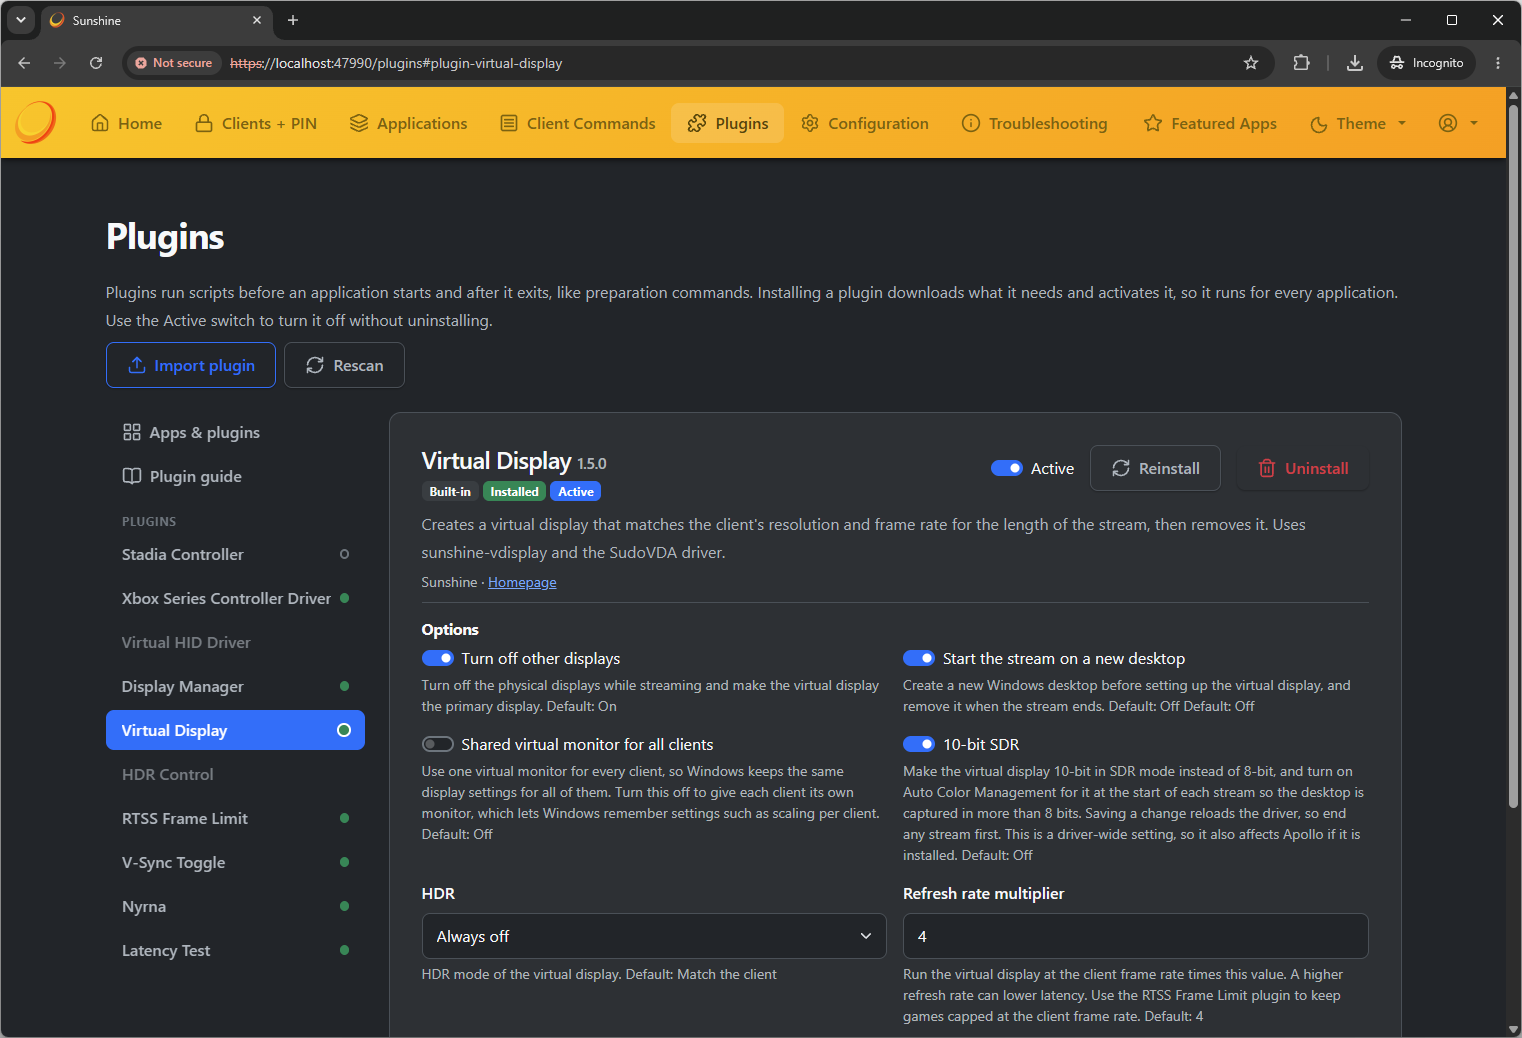
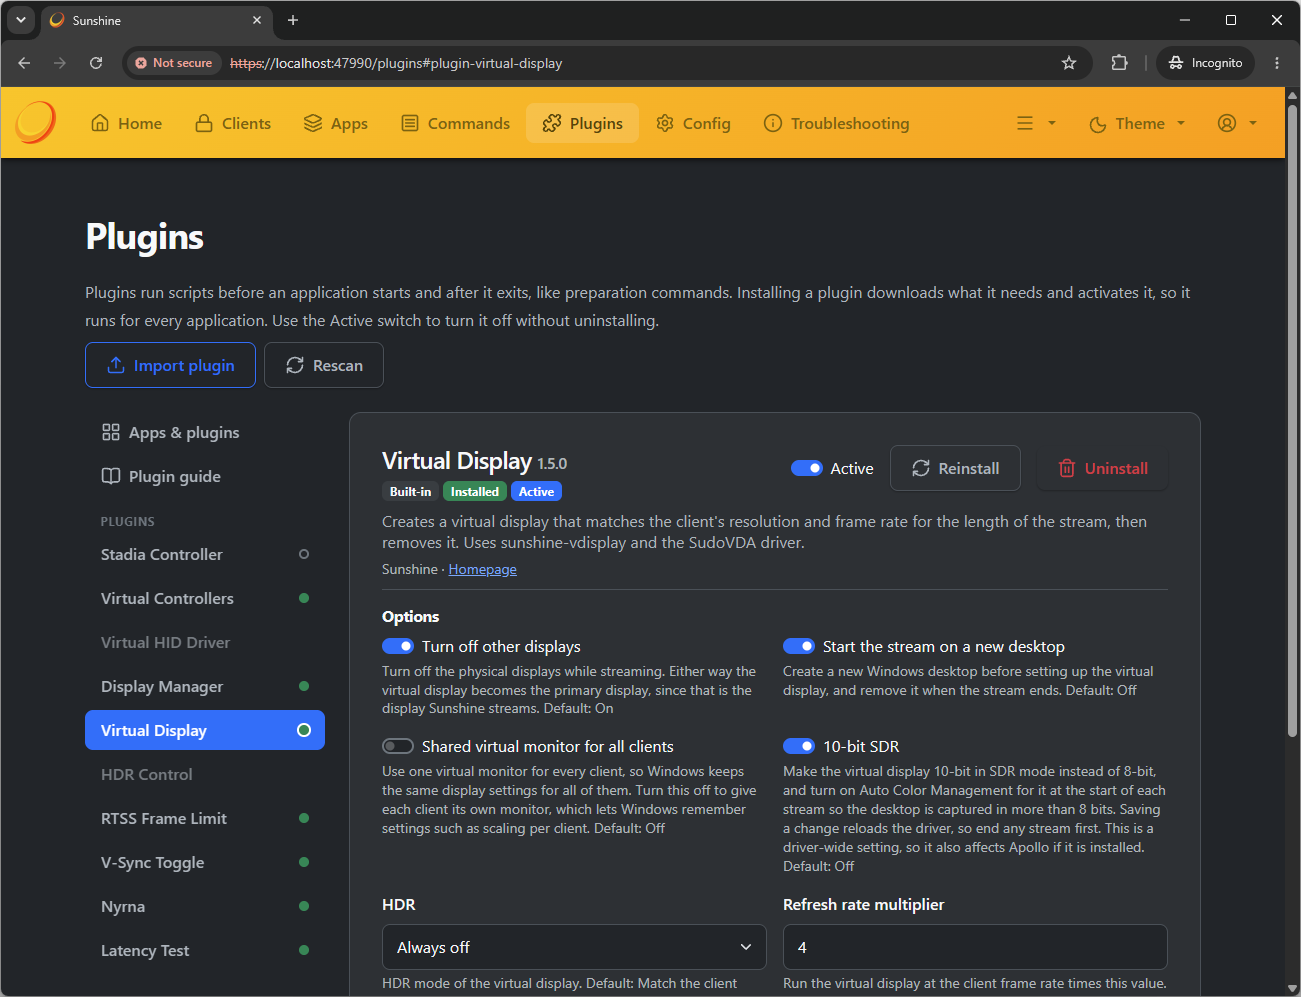
docs: describe the DualSense controllers and the reworked Clients page in the README

diff --git a/README.md b/README.md
@@ -25,7 +25,7 @@ Bundled plugins:
 - **RTSS Frame Limit**: caps games at the client's frame rate through RivaTuner.
 - **V-Sync Toggle**: sets the driver's global V-Sync for the stream (NVIDIA and AMD).
 - **Nyrna**: a *Suspend* / *Resume* client command, with a notification showing what is suspended.
-- **Xbox Series Controller Driver**: light-weight input driver that maps any client controller to an Xbox Series controller on this host.
+- **Virtual Controllers**: a light-weight input driver that shows client controllers to games as Xbox Series or DualSense controllers, chosen automatically, per application or client, or from the client's in-stream menu.
 - **Virtual HID**: manage the optional Virtual HID driver license and status.
 - **Stadia Controller**: use a Stadia Controller over Wi-Fi as a virtual Xbox controller, with a live view of its buttons and optional headset audio.
 - **Latency Test**: a test pattern for measuring latency and pacing with a phone camera (read more: [ML Latency Analyzer](https://github.com/MoreOrLessSoftware/latency-analyzer))
@@ -38,7 +38,7 @@ Buttons that Sunshine adds to a Moonlight client's in-stream overlay menu. Each 
 
 - Edit them on the **Client Commands** page, for all streams, for one application, or for a group of programs.
 - Program groups appear when one of their programs is in the foreground (or, with a `~` before the name, just running).
-- Plugins add commands of their own, and you can change their labels, icons and programs.
+- Plugins add commands of their own, and you can change their labels, icons and programs. Bundled plugins can also offer commands that Sunshine itself carries out, such as switching your controllers between Xbox and DualSense.
 - Individual commands can be turned on or off. Command lines are told which client and application they run for.
 
 [![Client Commands](./screenshots/client_commands.webp)](https://raw.githubusercontent.com/MoreOrLessSoftware/Sunshine/mlsoft-custom/screenshots/client_commands.webp)
@@ -49,11 +49,11 @@ Buttons that Sunshine adds to a Moonlight client's in-stream overlay menu. Each 
 ### Web UI
 
 - Recommendations on the Home page, such as the best AMD encoder settings or the Virtual Display app, applied in one click.
-- A **Clients + PIN** page to manage paired devices: rename them in a dialog, search and sort, see when each last connected, and have a client's name filled in when you pair with a PIN.
+- A **Clients** page built around paired devices: search and sort them, see when each last connected and which have plugin settings, rename or unpair them (with a confirmation), and pair a new one with a PIN from a panel that opens by itself when a device asks to pair, with its name filled in.
 - Plugin settings for an application or a client, with option choices that a script can supply.
 - A list view for the Applications page, and an overview of every application against every plugin.
 - The Sunshine version in the page header, and the active encoder and NVENC unit count in the configuration.
-- A layout that works on phones.
+- A layout that works on phones: the navbar stays on one line, with links that don't fit in an overflow menu.
 
 ### Latency and Frame Pacing
 
@@ -89,7 +89,10 @@ Support for [PyroWave](https://github.com/Themaister/pyrowave), an experimental 
 
 ### Input
 
-- **Xbox Series Controller Driver** (xgpad): a virtual Xbox Series X|S controller that XInput, Windows.Gaming.Input and GameInput see as a real one, with Guide and Share buttons and impulse trigger rumble. It needs no kernel driver. It is an optional installer component that can also be installed from the web UI.
+- **Virtual Controllers** (xgpad): virtual controllers that need no kernel driver, installed with the Virtual Controllers plugin.
+  - **Xbox Series X|S**: XInput, Windows.Gaming.Input and GameInput see a real one, with Guide and Share buttons and impulse trigger rumble.
+  - **DualSense**: motion sensors, a two-finger touchpad and battery level from the client's controller, and lightbar color, player LEDs, rumble and adaptive trigger effects sent back to it. SDL, Steam Input and games with DualSense support see a DualSense; games that only support Xbox controllers see it through Steam Input.
+  - PlayStation controllers, and controllers with motion sensors or a touchpad such as Switch controllers, become DualSense controllers automatically; the rest become Xbox Series controllers. The plugin's **Controller type** sets it per application or client, and clients can switch during a stream from their in-stream menu.
 - **Virtual HID**: virtual gamepads without ViGEmBus, which is no longer needed.
 
 ### Sessions
